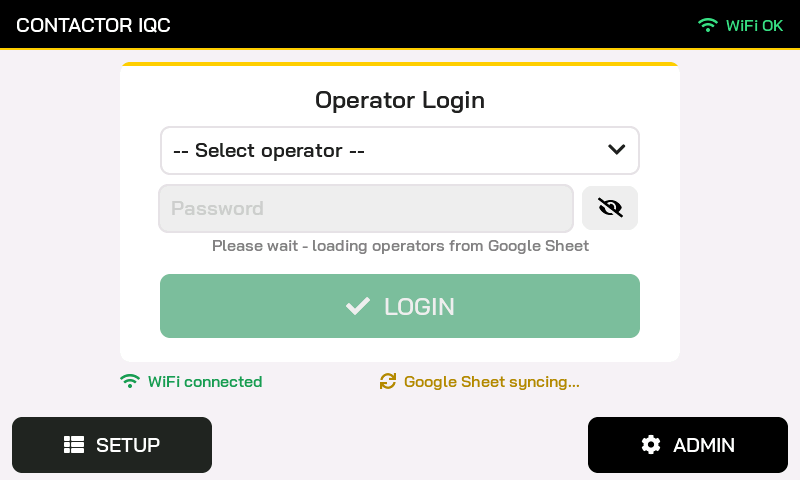
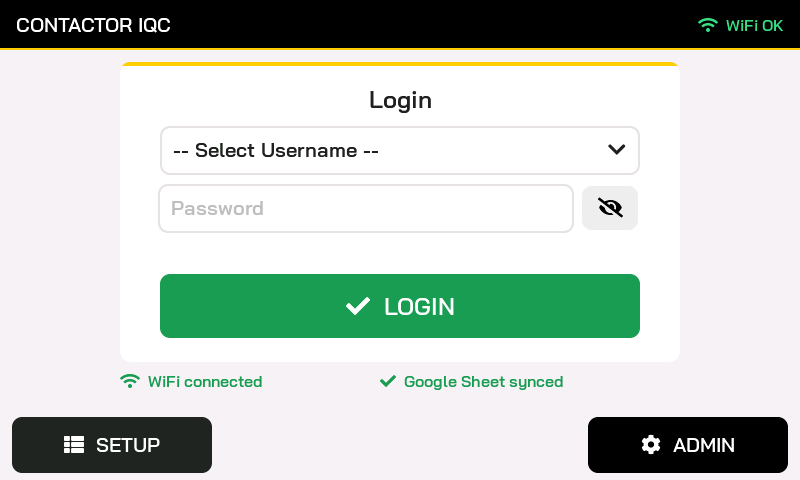
SAVE button, HOME replaces NEXT BATCH, WAIT status between cycles, login wording
- Finished units stay in RAM during a test; SAVE (enabled when all channels
  are done or after STOP ALL) queues and uploads them. Writing flash while
  the RGB panel draws caused the glitch seen after the first unit finished.
- HOME goes to the model page; unsaved results need a DON'T SAVE confirmation
- Channel status shows WAIT while resting between cycles
- Login: 'Login', 'Select Username'; header 'Login by: name'

Claude-Session: https://claude.ai/code/session_01LXTvxhwrQucbbkRLzNXi3e

diff --git a/hmi/src/ui/ui_test.cpp b/hmi/src/ui/ui_test.cpp
@@ -24,10 +24,11 @@ static const lv_coord_t COL0_W = 160, COL_W = 124, ROW_H = 34;
 
 static lv_obj_t *s_cell[ROWS][COLS];
 static lv_obj_t *s_lbl[ROWS][COLS];
-static lv_obj_t *s_btn_back, *s_btn_start, *s_btn_stop, *s_btn_next;
+static lv_obj_t *s_btn_back, *s_btn_start, *s_btn_stop, *s_btn_save, *s_btn_home;
 static lv_timer_t *s_timer = nullptr;
 static uint8_t s_style[ROWS][COLS];
 static bool s_started = false;
+static bool s_saved = false;  // SAVE pressed for this batch
 
 static void apply_style(int row, int col, CellStyle st) {
   lv_color_t bg = (row % 2) ? COL_CARD : COL_ROW_ALT, fg = COL_TEXT;
@@ -179,7 +180,8 @@ static void refresh() {
   ui_btn_set_enabled(s_btn_back, !running && !s_started);
   ui_btn_set_enabled(s_btn_start, !running && !s_started);
   ui_btn_set_enabled(s_btn_stop, running);
-  ui_btn_set_enabled(s_btn_next, !running && s_started);
+  ui_btn_set_enabled(s_btn_save, !running && s_started && !s_saved);
+  ui_btn_set_enabled(s_btn_home, !running && s_started);
 }
 
 static void timer_cb(lv_timer_t *) { refresh(); }
@@ -205,14 +207,38 @@ static void stop_cb(lv_event_t *) {
 }
 
 // ---------------------------------------------------------------------------
-// NEXT BATCH: wait for this batch's rows to reach the Google Sheet, then go
-// back to the model / serial page. Offline, rows stay queued on the panel.
+// SAVE: the operator decides whether this batch goes to the Google Sheet.
+// Finished units wait in RAM during the test (writing flash while the panel
+// is drawing makes the screen glitch); SAVE stores them in the upload queue
+// and uploads them. Offline, they stay queued and upload automatically later.
 // ---------------------------------------------------------------------------
 
 static const uint32_t SYNC_TIMEOUT_MS = 20000;
 static lv_obj_t *s_sync_ov = nullptr, *s_sync_lbl = nullptr, *s_sync_spin = nullptr;
 static uint32_t s_sync_t0 = 0;
 static int s_sync_phase = 0;  // 0 = uploading, 1 = success shown, 2 = offline note shown
+
+static lv_obj_t *overlay() {
+  lv_obj_t *ov = lv_obj_create(lv_layer_top());
+  lv_obj_set_size(ov, SCR_W, SCR_H);
+  lv_obj_set_style_bg_color(ov, lv_color_black(), 0);
+  lv_obj_set_style_bg_opa(ov, LV_OPA_50, 0);
+  lv_obj_set_style_radius(ov, 0, 0);
+  lv_obj_set_style_border_width(ov, 0, 0);
+  lv_obj_clear_flag(ov, LV_OBJ_FLAG_SCROLLABLE);
+  return ov;
+}
+
+static lv_obj_t *panel(lv_obj_t *ov, lv_coord_t w, lv_coord_t h) {
+  lv_obj_t *p = lv_obj_create(ov);
+  lv_obj_set_size(p, w, h);
+  lv_obj_center(p);
+  lv_obj_set_style_border_side(p, LV_BORDER_SIDE_TOP, 0);
+  lv_obj_set_style_border_width(p, 4, 0);
+  lv_obj_set_style_border_color(p, COL_ACCENT, 0);
+  lv_obj_clear_flag(p, LV_OBJ_FLAG_SCROLLABLE);
+  return p;
+}
 
 static void sync_msg(const char *txt, lv_color_t color) {
   lv_label_set_text(s_sync_lbl, txt);
@@ -229,7 +255,7 @@ static void sync_timer_cb(lv_timer_t *t) {
       sync_msg("Results saved on the panel.\nGoogle Sheet is not configured.", COL_MUTED);
       s_sync_phase = 2;
     } else if (gsheets_pending_count() == 0) {
-      sync_msg(LV_SYMBOL_OK "  Upload successful", COL_GREEN);
+      sync_msg(LV_SYMBOL_OK "  Saved to Google Sheet", COL_GREEN);
       s_sync_phase = 1;
     } else if (el > SYNC_TIMEOUT_MS) {
       sync_msg(LV_SYMBOL_WARNING "  No connection.\nResults are saved on the panel\nand will upload automatically.", COL_WARN_TXT);
@@ -241,33 +267,24 @@ static void sync_timer_cb(lv_timer_t *t) {
   lv_timer_del(t);
   lv_obj_del(s_sync_ov);
   s_sync_ov = nullptr;
-  ui_show_model();
 }
 
-static void show_sync_popup() {
-  s_sync_ov = lv_obj_create(lv_layer_top());
-  lv_obj_set_size(s_sync_ov, SCR_W, SCR_H);
-  lv_obj_set_style_bg_color(s_sync_ov, lv_color_black(), 0);
-  lv_obj_set_style_bg_opa(s_sync_ov, LV_OPA_50, 0);
-  lv_obj_set_style_radius(s_sync_ov, 0, 0);
-  lv_obj_set_style_border_width(s_sync_ov, 0, 0);
-  lv_obj_clear_flag(s_sync_ov, LV_OBJ_FLAG_SCROLLABLE);
+static void save_cb(lv_event_t *) {
+  ResultRow row;
+  while (rig_pop_result(&row)) gsheets_enqueue(row);
+  s_saved = true;
+  ui_btn_set_enabled(s_btn_save, false);
+  lv_label_set_text(lv_obj_get_child(s_btn_save, 0), LV_SYMBOL_OK " SAVED");
 
-  lv_obj_t *panel = lv_obj_create(s_sync_ov);
-  lv_obj_set_size(panel, 460, 230);
-  lv_obj_center(panel);
-  lv_obj_set_style_border_side(panel, LV_BORDER_SIDE_TOP, 0);
-  lv_obj_set_style_border_width(panel, 4, 0);
-  lv_obj_set_style_border_color(panel, COL_ACCENT, 0);
-  lv_obj_clear_flag(panel, LV_OBJ_FLAG_SCROLLABLE);
-
-  s_sync_spin = lv_spinner_create(panel, 1000, 60);
+  s_sync_ov = overlay();
+  lv_obj_t *p = panel(s_sync_ov, 460, 230);
+  s_sync_spin = lv_spinner_create(p, 1000, 60);
   lv_obj_set_size(s_sync_spin, 70, 70);
   lv_obj_align(s_sync_spin, LV_ALIGN_TOP_MID, 0, 6);
   lv_obj_set_style_arc_color(s_sync_spin, COL_ACCENT, LV_PART_INDICATOR);
 
-  s_sync_lbl = lv_label_create(panel);
-  lv_label_set_text(s_sync_lbl, "Syncing with Google Sheet...");
+  s_sync_lbl = lv_label_create(p);
+  lv_label_set_text(s_sync_lbl, "Saving to Google Sheet...");
   lv_obj_set_style_text_font(s_sync_lbl, FONT_M, 0);
   lv_obj_set_style_text_align(s_sync_lbl, LV_TEXT_ALIGN_CENTER, 0);
   lv_obj_align(s_sync_lbl, LV_ALIGN_BOTTOM_MID, 0, -10);
@@ -278,7 +295,15 @@ static void show_sync_popup() {
   lv_timer_create(sync_timer_cb, 250, nullptr);
 }
 
-static void next_cb(lv_event_t *) {
+// ---------------------------------------------------------------------------
+// HOME: back to the model / serial page for the next batch. Unsaved results
+// need a confirmation, then they are discarded.
+// ---------------------------------------------------------------------------
+
+static lv_obj_t *s_confirm_ov = nullptr;
+
+static void go_home() {
+  rig_clear_results();
   // Keep the operator; the model, serials and ticks are chosen again for every batch
   g_app.modelIdx = -1;
   for (int i = 0; i < NUM_CH; i++) {
@@ -287,15 +312,48 @@ static void next_cb(lv_event_t *) {
   }
   bool none[NUM_CH] = {false};
   rig_reset(none);
-  ui_btn_set_enabled(s_btn_next, false);
-  show_sync_popup();
+  ui_show_model();
+}
+
+static void confirm_close() {
+  lv_obj_del(s_confirm_ov);
+  s_confirm_ov = nullptr;
+}
+
+static void discard_cb(lv_event_t *) {
+  confirm_close();
+  go_home();
+}
+
+static void cancel_cb(lv_event_t *) { confirm_close(); }
+
+static void home_cb(lv_event_t *) {
+  if (s_saved || rig_pending_count() == 0) {
+    go_home();
+    return;
+  }
+  s_confirm_ov = overlay();
+  lv_obj_t *p = panel(s_confirm_ov, 500, 240);
+  lv_obj_t *t = lv_label_create(p);
+  lv_label_set_text(t, LV_SYMBOL_WARNING "  Results not saved");
+  lv_obj_set_style_text_font(t, FONT_L, 0);
+  lv_obj_set_style_text_color(t, COL_WARN_TXT, 0);
+  lv_obj_align(t, LV_ALIGN_TOP_MID, 0, 4);
+  lv_obj_t *m = lv_label_create(p);
+  lv_label_set_text(m, "Go home without sending this batch\nto the Google Sheet?");
+  lv_obj_set_style_text_align(m, LV_TEXT_ALIGN_CENTER, 0);
+  lv_obj_align(m, LV_ALIGN_TOP_MID, 0, 52);
+  lv_obj_t *c = ui_btn(p, "CANCEL", COL_NEUTRAL, 200, BTN_H, cancel_cb, nullptr);
+  lv_obj_align(c, LV_ALIGN_BOTTOM_LEFT, 0, 0);
+  lv_obj_t *d = ui_btn(p, "DON'T SAVE", COL_FAIL, 200, BTN_H, discard_cb, nullptr);
+  lv_obj_align(d, LV_ALIGN_BOTTOM_RIGHT, 0, 0);
 }
 
 void ui_show_test() {
   lv_obj_t *scr = ui_screen_create();
   const ModelSpec &m = g_models[g_app.modelIdx];
   char title[120];
-  snprintf(title, sizeof(title), "%s  |  %s", g_app.operatorName, m.name);
+  snprintf(title, sizeof(title), "Login by: %s  |  %s", g_app.operatorName, m.name);
   ui_header(scr, title);
   ui_set_current(UI_TEST);
 
@@ -310,12 +368,14 @@ void ui_show_test() {
   }
 
   lv_obj_t *f = ui_footer(scr);
-  s_btn_back = ui_btn(f, LV_SYMBOL_LEFT " BACK", COL_NEUTRAL, 170, BTN_H, back_cb, nullptr);
-  s_btn_start = ui_btn(f, LV_SYMBOL_PLAY " START", COL_OK, 190, BTN_H, start_cb, nullptr);
-  s_btn_stop = ui_btn(f, LV_SYMBOL_STOP " STOP ALL", COL_FAIL, 200, BTN_H, stop_cb, nullptr);
-  s_btn_next = ui_btn(f, "NEXT BATCH " LV_SYMBOL_RIGHT, COL_PRIMARY, 190, BTN_H, next_cb, nullptr);
+  s_btn_back = ui_btn(f, LV_SYMBOL_LEFT " BACK", COL_NEUTRAL, 136, BTN_H, back_cb, nullptr);
+  s_btn_start = ui_btn(f, LV_SYMBOL_PLAY " START", COL_OK, 150, BTN_H, start_cb, nullptr);
+  s_btn_stop = ui_btn(f, LV_SYMBOL_STOP " STOP ALL", COL_FAIL, 172, BTN_H, stop_cb, nullptr);
+  s_btn_save = ui_btn(f, LV_SYMBOL_UPLOAD " SAVE", COL_HEADER, 142, BTN_H, save_cb, nullptr);
+  s_btn_home = ui_btn(f, LV_SYMBOL_HOME " HOME", COL_PRIMARY, 142, BTN_H, home_cb, nullptr);
 
   s_started = false;
+  s_saved = false;
   rig_reset(g_app.chEnabled);
   refresh();
   s_timer = lv_timer_create(timer_cb, 150, nullptr);

diff --git a/hmi/src/ui/ui_login.cpp b/hmi/src/ui/ui_login.cpp
@@ -105,7 +105,7 @@ static void try_login() {
   if (!login_ready()) return;
   int op = (int)lv_dropdown_get_selected(s_dd) - 1;
   if (op < 0 || op >= g_operatorCount) {
-    show_msg("Select your name", COL_FAIL);
+    show_msg("Select your username", COL_FAIL);
     return;
   }
   if (!app_data_check_password(op, lv_textarea_get_text(s_pw))) {
@@ -173,13 +173,13 @@ void ui_show_login() {
   lv_obj_clear_flag(card, LV_OBJ_FLAG_SCROLLABLE);
 
   lv_obj_t *t = lv_label_create(card);
-  lv_label_set_text(t, "Operator Login");
+  lv_label_set_text(t, "Login");
   lv_obj_set_style_text_font(t, FONT_L, 0);
   lv_obj_align(t, LV_ALIGN_TOP_MID, 0, 0);
 
   // "-- Select --" followed by one line per operator
   static char opts[(NAME_MAX_LEN + 2) * (MAX_OPERATORS + 1)];
-  strlcpy(opts, "-- Select operator --", sizeof(opts));
+  strlcpy(opts, "-- Select Username --", sizeof(opts));
   uint16_t preselect = 0;
   for (int i = 0; i < g_operatorCount; i++) {
     strlcat(opts, "\n", sizeof(opts));

diff --git a/hmi/src/rig.cpp b/hmi/src/rig.cpp
@@ -246,6 +246,7 @@ static void tick_channel(int ch, uint32_t now) {
           set_event("CH%d cycle %d/%d PASS", ch + 1, v.cycle, m.cycles);
           r.t0 = now;
           r.ph = P_GAP;
+          v.status = CH_WAITING;  // resting until the next cycle starts
         }
       }
       break;
@@ -289,6 +290,7 @@ void rig_reset(const bool enabled[NUM_CH]) {
 void rig_start(const ModelSpec *spec, const bool enabled[NUM_CH]) {
   if (rig_running()) return;
   rig_reset(enabled);
+  rig_clear_results();
   memset(s_cyc, 0, sizeof(s_cyc));
   s_spec = spec;
   hw_sim_set_spec(spec);
@@ -348,6 +350,11 @@ int rig_round() {
 const char *rig_last_event() { return s_event; }
 
 int rig_pending_count() { return s_qCount; }
+
+void rig_clear_results() {
+  s_qHead = 0;
+  s_qCount = 0;
+}
 
 bool rig_pop_result(ResultRow *out) {
   if (s_qCount == 0) return false;

diff --git a/hmi/src/main.cpp b/hmi/src/main.cpp
@@ -31,10 +31,6 @@ void loop() {
   rig_tick();
   gsheets_set_hold(rig_running());
 
-  // Every finished unit becomes one row for the "Results" sheet
-  ResultRow row;
-  while (rig_pop_result(&row)) gsheets_enqueue(row);
-
   // Swap in freshly synced specs/operators only when no test is affected
   if (gsheets_has_new_data() && ui_can_apply_data()) {
     gsheets_apply_new_data();

diff --git a/hmi/src/rig.h b/hmi/src/rig.h
@@ -61,7 +61,9 @@ int rig_round();
 const char *rig_last_event();
 
 int rig_pending_count();
+// Finished units wait here (RAM only) until the operator presses SAVE
 bool rig_pop_result(ResultRow *out);
+void rig_clear_results();  // operator chose not to save
 
 // Admin / manual mode (only while no batch is running)
 bool rig_manual_relay(int ch, bool on);

diff --git a/hmi/src/ui/ui_model.cpp b/hmi/src/ui/ui_model.cpp
@@ -224,7 +224,7 @@ static lv_obj_t *make_row(lv_obj_t *parent, lv_coord_t h) {
 void ui_show_model() {
   lv_obj_t *scr = ui_screen_create();
   char title[80];
-  snprintf(title, sizeof(title), "Operator: %s", g_app.operatorName);
+  snprintf(title, sizeof(title), "Login by: %s", g_app.operatorName);
   ui_header(scr, title);
   ui_set_current(UI_MODEL);
 

diff --git a/hmi/src/gsheets.cpp b/hmi/src/gsheets.cpp
@@ -534,7 +534,7 @@ static void task(void *) {
       continue;
     }
     // TLS uploads load the CPU and PSRAM bus that also feed the RGB panel, so
-    // rows wait in flash until the batch ends (NEXT BATCH uploads them).
+    // nothing is sent until the batch ends.
     if (s_hold) {
       set_status("Paused (test running)");
       continue;

diff --git a/hmi/src/ui/ui.h b/hmi/src/ui/ui.h
@@ -3,7 +3,7 @@
 #include "ui_theme.h"
 
 // Screen flow:
-//   Login -> Model & Serials -> Test -> (Next batch) -> Model & Serials
+//   Login -> Model & Serials -> Test -> (SAVE, HOME) -> Model & Serials
 //   Login -> Setup (view specs / operators / status)
 //   Login -> Admin (password) -> WiFi / Manual relay / System
 void ui_init();

diff --git a/hmi/src/config.h b/hmi/src/config.h
@@ -4,7 +4,7 @@
 // Firmware-wide constants. Change values here, not scattered in the code.
 // ---------------------------------------------------------------------------
 
-#define FW_VERSION "0.3.1"
+#define FW_VERSION "0.3.2"
 
 #define NUM_CH 5             // test channels (contactor slots)
 #define MAX_MODELS 8

diff --git a/hmi/README.md b/hmi/README.md
@@ -20,7 +20,7 @@ INA219 or sub-board is wired. The header shows `SIM` while the simulation is act
 |---|---|
 | ![Login](docs/screenshots/1_login.png) | ![Model & serials](docs/screenshots/2_model_serials.png) |
 | ![Keyboard](docs/screenshots/3_keyboard.png) | ![Test running](docs/screenshots/4_test_running.png) |
-| ![Test done](docs/screenshots/5_test_done_with_fail.png) | ![Next batch upload](docs/screenshots/6_next_batch_upload.png) |
+| ![HOME without saving](docs/screenshots/5_test_done_with_fail.png) | ![Saved](docs/screenshots/6_saved.png) |
 | ![Setup](docs/screenshots/7_setup.png) | ![Admin](docs/screenshots/8_admin_wifi.png) |
 
 ## Flashing (first time)
@@ -48,11 +48,14 @@ INA219 or sub-board is wired. The header shows `SIM` while the simulation is act
 3. **PROCEED → START.** Channels start 1.5 s apart, each runs 5 cycles, and about 2% of
    simulated cycles get a random fault, so you will see the occasional FAIL.
 4. **STOP ALL** switches everything off and marks the unfinished steps `-NA-`.
-5. **NEXT BATCH** keeps operator and model and clears the serials.
-6. **ADMIN** (password `100100`): enter WiFi credentials, toggle relays manually, view system info.
+5. **SAVE** (enabled when every channel has finished, or after STOP ALL) sends the batch to the
+   Google Sheet. Results stay in RAM until then; nothing is uploaded during a test.
+6. **HOME** goes back to the model page for the next batch. If the batch was not saved it asks
+   first, and **DON'T SAVE** throws the results away.
+7. While a channel rests between cycles its Status shows **WAIT**, and **RUN** again when the next cycle starts.
+8. **ADMIN** (password `100100`): enter WiFi credentials, toggle relays manually, view system info.
 
-The upload icon in the header counts result rows waiting to be sent to Google Sheets.
-Rows are queued in flash and uploaded in the background; Setup → Status shows the Sheets state. While the rig is simulated (`SIM` in the header), the uploaded rows are simulated data too.
+Saved rows are queued in flash and uploaded in the background (offline they wait for WiFi); Setup → Status shows the Sheets state. While the rig is simulated (`SIM` in the header), the uploaded rows are simulated data too.
 
 ## If something looks wrong
 
